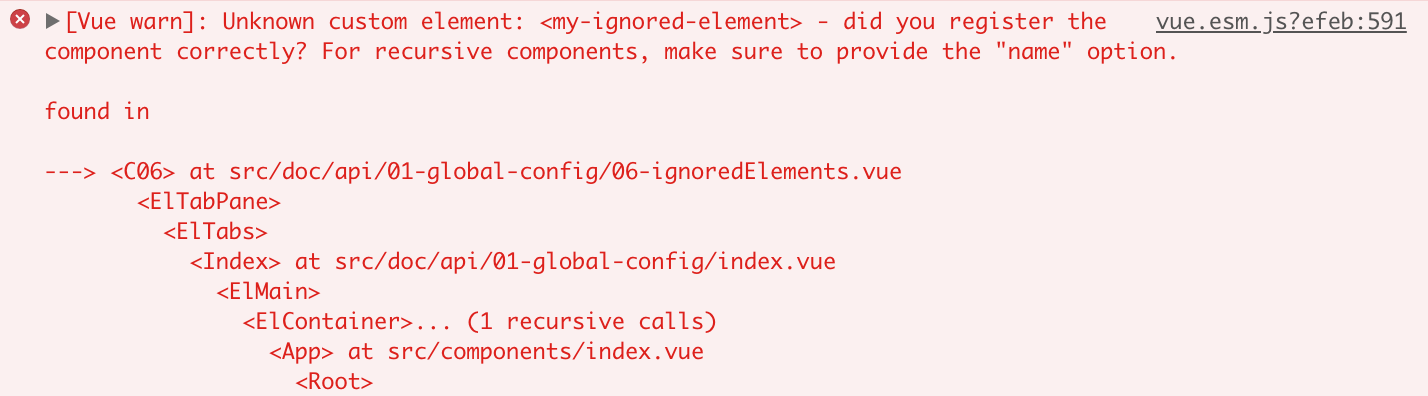
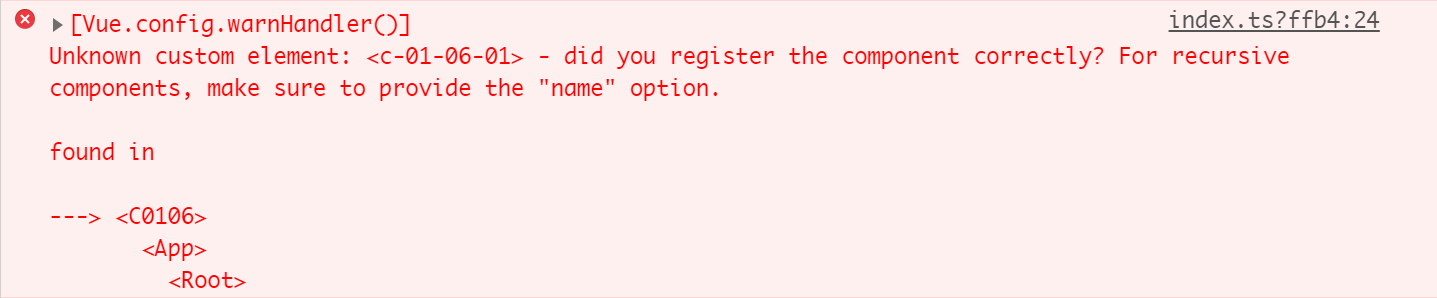
refactor(api): Vue.config.ignoredElements

diff --git a/src/app/doc/api/01-global-config/06-ignored-elements/C0106.tsx b/src/app/doc/api/01-global-config/06-ignored-elements/C0106.tsx
@@ -1,0 +1,23 @@
+import { Component, Vue } from "vue-property-decorator";
+import { Collapse } from "ant-design-vue";
+import Picture01 from "./C0106.png";
+
+@Component({})
+export default class C0106 extends Vue {
+  public render() {
+    return (
+      <Collapse>
+        <Collapse.Panel header={"Vue.config.ignoredElements"}>
+          <p>默认情况下, 如果一个自定义元素无法被识别为某个组件, 则会报错:</p>
+          <c-01-06-01></c-01-06-01>
+          <img src={Picture01} style={{ maxWidth: "100%" }} />
+
+          <p>
+            如果将该元素添加到 <code>Vue.config.ignoredElements</code> 中, 则
+            vue 会忽略该元素
+          </p>
+        </Collapse.Panel>
+      </Collapse>
+    );
+  }
+}

diff --git a/src/index.ts b/src/index.ts
@@ -21,10 +21,10 @@ Vue.config.errorHandler = (e: Error, vm: Vue, info: string) => {
 };
 
 Vue.config.warnHandler = (msg, vm, trace) => {
-  console.warn(`[Vue.config.warnHandler()]\n${msg}`, trace);
+  console.error(`[Vue.config.warnHandler()]\n${msg}`, trace);
 };
 
-Vue.config.ignoredElements = ["my-ignored-element"];
+Vue.config.ignoredElements = ["c-01-06-01"];
 Vue.config.keyCodes = { "lucky-eight": 56 };
 Vue.config.performance = false;
 Vue.config.productionTip = true;

diff --git a/src/router/route-api.ts b/src/router/route-api.ts
@@ -41,7 +41,7 @@ export const ROUTE_API: Array<RouteConfig> = [
     path: ROUTES._03_01_06.PATH,
     name: ROUTES._03_01_06.NAME,
     component: () =>
-      import("../app/doc/api/01-global-config/06-ignored-elements/C0106.vue")
+      import("../app/doc/api/01-global-config/06-ignored-elements/C0106")
   },
   {
     path: ROUTES._03_01_07.PATH,
